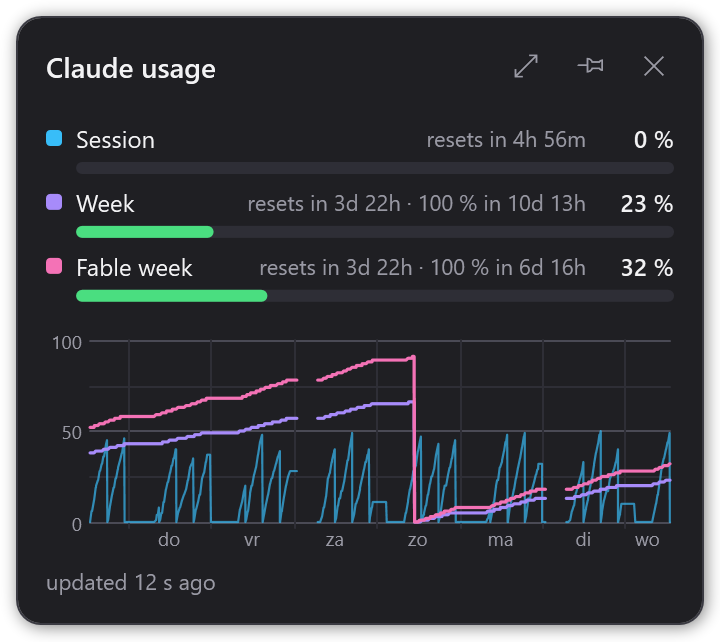
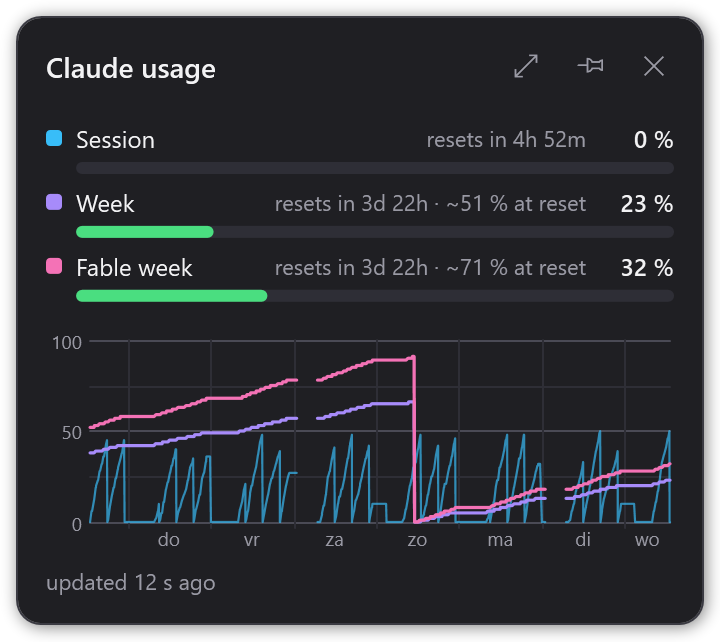
Show the percent reached at reset when 100 % comes after it
The estimate now accounts for the reset: when the bucket would not fill up
before it, the row shows "~NN % at reset" instead of a time to 100 %.

diff --git a/tests/ClaudeUsage.Tests/LimitForecastTests.cs b/tests/ClaudeUsage.Tests/LimitForecastTests.cs
@@ -14,10 +14,28 @@ public sealed class LimitForecastTests
     [Fact]
     public void Session_extrapolates_the_rate_since_it_started()
     {
-        // Started 2 h ago (resets in 3 h), 40 % used: 20 %/h, so 60 % more takes 3 h.
-        var bucket = new UsageBucket(40, s_now.AddHours(3));
+        // Started 2 h ago (resets in 3 h), 60 % used: 30 %/h, so 40 % more takes 80 min.
+        var bucket = new UsageBucket(60, s_now.AddHours(3));
 
-        Assert.Equal(s_now.AddHours(3), LimitForecast.Session(bucket, s_now));
+        Assert.Equal(new LimitEstimate(s_now.AddMinutes(80), null), LimitForecast.Session(bucket, s_now));
+    }
+
+    [Fact]
+    public void Session_that_resets_first_gives_the_percent_at_reset()
+    {
+        // Started 2 h ago (resets in 3 h), 20 % used: 10 %/h, so 50 % by the reset.
+        var bucket = new UsageBucket(20, s_now.AddHours(3));
+
+        Assert.Equal(new LimitEstimate(null, 50), LimitForecast.Session(bucket, s_now));
+    }
+
+    [Fact]
+    public void Percent_at_reset_is_rounded_down()
+    {
+        // 33 % in 2 h = 16.5 %/h; 3 h more gives 82.5 %.
+        var bucket = new UsageBucket(33, s_now.AddHours(3));
+
+        Assert.Equal(new LimitEstimate(null, 82), LimitForecast.Session(bucket, s_now));
     }
 
     [Theory]
@@ -42,9 +60,30 @@ public sealed class LimitForecastTests
         // 30 % added over 3 days = 10 %/day; 60 % left takes 6 days.
         var history = new[] { Week(s_now.AddDays(-3), 10), Week(s_now.AddDays(-1), 25), Week(s_now, 40) };
 
-        var eta = LimitForecast.Weekly(new UsageBucket(40, s_now.AddDays(2)), history, s => s.Week, s_now);
+        var estimate = LimitForecast.Weekly(new UsageBucket(40, s_now.AddDays(7)), history, s => s.Week, s_now);
 
-        Assert.Equal(s_now.AddDays(6), eta);
+        Assert.Equal(new LimitEstimate(s_now.AddDays(6), null), estimate);
+    }
+
+    [Fact]
+    public void Weekly_that_resets_first_gives_the_percent_at_reset()
+    {
+        // 10 %/day as above; 2 days to the reset adds 20 %.
+        var history = new[] { Week(s_now.AddDays(-3), 10), Week(s_now.AddDays(-1), 25), Week(s_now, 40) };
+
+        var estimate = LimitForecast.Weekly(new UsageBucket(40, s_now.AddDays(2)), history, s => s.Week, s_now);
+
+        Assert.Equal(new LimitEstimate(null, 60), estimate);
+    }
+
+    [Fact]
+    public void Weekly_without_reset_time_still_estimates_when_full()
+    {
+        var history = new[] { Week(s_now.AddDays(-3), 10), Week(s_now, 40) };
+
+        var estimate = LimitForecast.Weekly(new UsageBucket(40, null), history, s => s.Week, s_now);
+
+        Assert.Equal(new LimitEstimate(s_now.AddDays(6), null), estimate);
     }
 
     [Fact]
@@ -59,10 +98,10 @@ public sealed class LimitForecastTests
             Week(s_now, 20),
         };
 
-        var eta = LimitForecast.Weekly(new UsageBucket(20, s_now.AddDays(6)), history, s => s.Week, s_now);
+        var estimate = LimitForecast.Weekly(new UsageBucket(20, s_now.AddDays(9)), history, s => s.Week, s_now);
 
         // 20 + 10 + 10 = 40 % over 4 days = 10 %/day; 80 % left takes 8 days.
-        Assert.Equal(s_now.AddDays(8), eta);
+        Assert.Equal(new LimitEstimate(s_now.AddDays(8), null), estimate);
     }
 
     [Fact]
@@ -76,11 +115,11 @@ public sealed class LimitForecastTests
     }
 
     [Fact]
-    public void Row_shows_estimate_in_red_when_it_comes_before_the_reset()
+    public void Row_shows_time_to_full_in_red_when_it_comes_before_the_reset()
     {
         var row = new BucketRow("Session", Palette.SessionSeries);
 
-        row.Update(new UsageBucket(40, s_now.AddHours(3)), s_now, s_now.AddHours(2));
+        row.Update(new UsageBucket(60, s_now.AddHours(3)), s_now, new LimitEstimate(s_now.AddHours(2), null));
 
         Assert.Equal("resets in 3h 0m", row.Countdown);
         Assert.Equal(" · 100 % in 2h 0m", row.Forecast);
@@ -88,17 +127,28 @@ public sealed class LimitForecastTests
     }
 
     [Fact]
-    public void Row_shows_estimate_muted_when_the_reset_comes_first()
+    public void Row_shows_percent_at_reset_muted_when_the_reset_comes_first()
     {
         var row = new BucketRow("Week", Palette.WeekSeries);
 
-        row.Update(new UsageBucket(40, s_now.AddDays(2)), s_now, s_now.AddDays(6));
+        row.Update(new UsageBucket(40, s_now.AddDays(2)), s_now, new LimitEstimate(null, 60));
 
-        Assert.Equal(" · 100 % in 6d 0h", row.Forecast);
+        Assert.Equal(" · ~60 % at reset", row.Forecast);
         Assert.Same(Palette.TextMuted, row.ForecastBrush);
 
         row.Update(new UsageBucket(40, s_now.AddDays(2)), s_now);
 
         Assert.Equal("", row.Forecast);
+    }
+
+    [Fact]
+    public void Row_without_reset_time_shows_time_to_full_muted()
+    {
+        var row = new BucketRow("Fable week", Palette.ModelSeries);
+
+        row.Update(new UsageBucket(40, null), s_now, new LimitEstimate(s_now.AddDays(6), null));
+
+        Assert.Equal("100 % in 6d 0h", row.Forecast);
+        Assert.Same(Palette.TextMuted, row.ForecastBrush);
     }
 }

diff --git a/src/ClaudeUsage/Usage/LimitForecast.cs b/src/ClaudeUsage/Usage/LimitForecast.cs
@@ -3,9 +3,15 @@ using ClaudeUsage.Storage;
 namespace ClaudeUsage.Usage;
 
 /// <summary>
-/// Linear estimates of when a bucket reaches 100 %: the session from its average rate since it started, the week
-/// buckets from their average rate over the last 7 days of history. Null when there is too little to go on, nothing
-/// is being used, or the bucket is already full.
+/// Where a bucket is heading at its current rate: <see cref="FullAt"/> when it reaches 100 % before the reset (or the
+/// reset is unknown), otherwise <see cref="AtReset"/>, the percentage it would reach by the reset.
+/// </summary>
+public sealed record LimitEstimate(DateTimeOffset? FullAt, int? AtReset);
+
+/// <summary>
+/// Linear estimates from a usage rate: the session's from its average rate since it started, the week buckets' from
+/// their average rate over the last 7 days of history. Null when there is too little to go on, nothing is being
+/// used, or the bucket is already full.
 /// </summary>
 public static class LimitForecast
 {
@@ -17,27 +23,27 @@ public static class LimitForecast
     public static readonly TimeSpan MinSpan = TimeSpan.FromMinutes(15);
 
     /// <summary>The session started <see cref="SessionLength"/> before its reset; usage since then sets the rate.</summary>
-    public static DateTimeOffset? Session(UsageBucket? bucket, DateTimeOffset now)
+    public static LimitEstimate? Session(UsageBucket? bucket, DateTimeOffset now)
     {
-        if (bucket is not { ResetsAt: { } reset } || bucket.Percent is <= 0 or >= 100)
+        if (bucket is not { ResetsAt: { } reset } || bucket.Percent <= 0)
         {
             return null;
         }
 
         var elapsed = now - (reset - SessionLength);
-        return elapsed < MinSpan ? null : Eta(bucket.Percent, bucket.Percent / elapsed.TotalHours, now);
+        return elapsed < MinSpan ? null : Estimate(bucket, bucket.Percent / elapsed.TotalHours, now);
     }
 
     /// <summary>
     /// Rate = usage added over the samples of the last 7 days / the time they span. Increases between consecutive
     /// samples are summed; across a reset (a drop) the new value counts as used since the reset.
     /// </summary>
-    public static DateTimeOffset? Weekly(
+    public static LimitEstimate? Weekly(
         UsageBucket? bucket, IReadOnlyList<UsageSample> history, Func<UsageSample, int?> percentOf, DateTimeOffset now)
     {
         ArgumentNullException.ThrowIfNull(history);
         ArgumentNullException.ThrowIfNull(percentOf);
-        if (bucket is null || bucket.Percent >= 100)
+        if (bucket is null)
         {
             return null;
         }
@@ -68,13 +74,25 @@ public static class LimitForecast
             return null;
         }
 
-        return Eta(bucket.Percent, used / (l - f).TotalHours, now);
+        return Estimate(bucket, used / (l - f).TotalHours, now);
     }
 
-    private static DateTimeOffset? Eta(int percent, double perHour, DateTimeOffset now)
+    private static LimitEstimate? Estimate(UsageBucket bucket, double perHour, DateTimeOffset now)
     {
-        double hours = (100 - percent) / perHour;
+        if (bucket.Percent >= 100)
+        {
+            return null;
+        }
+
+        double hoursToFull = (100 - bucket.Percent) / perHour;
+        if (bucket.ResetsAt is { } reset && (reset - now).TotalHours < hoursToFull)
+        {
+            double hoursToReset = Math.Max(0, (reset - now).TotalHours);
+            // Rounded down: it stays below 100 % by definition.
+            return new LimitEstimate(null, (int)(bucket.Percent + (perHour * hoursToReset)));
+        }
+
         // Beyond a year the estimate means nothing (and DateTimeOffset could overflow).
-        return hours is > 0 and < 24 * 365 ? now + TimeSpan.FromHours(hours) : null;
+        return hoursToFull < 24 * 365 ? new LimitEstimate(now + TimeSpan.FromHours(hoursToFull), null) : null;
     }
 }

diff --git a/src/ClaudeUsage/UI/MainViewModel.cs b/src/ClaudeUsage/UI/MainViewModel.cs
@@ -31,7 +31,7 @@ public abstract class ObservableObject : INotifyPropertyChanged
     protected void Raise(string? name) => PropertyChanged?.Invoke(this, new PropertyChangedEventArgs(name));
 }
 
-/// <summary>One stats row: label with its chart colour, bar, "NN %", "resets in …" and when 100 % would be hit.</summary>
+/// <summary>One stats row: label with its chart colour, bar, "NN %", "resets in …" and where the bucket is heading.</summary>
 public sealed class BucketRow(string label, Brush swatch) : ObservableObject
 {
     public const string Missing = "—";
@@ -59,14 +59,17 @@ public sealed class BucketRow(string label, Brush swatch) : ObservableObject
 
     public string Countdown { get => _countdown; private set => Set(ref _countdown, value); }
 
-    /// <summary>" · 100 % in 3h 10m" (separator only after a countdown); empty without an estimate.</summary>
+    /// <summary>
+    /// " · 100 % in 3h 10m", or " · ~85 % at reset" when the reset comes first (separator only after a countdown);
+    /// empty without an estimate.
+    /// </summary>
     public string Forecast { get => _forecast; private set => Set(ref _forecast, value); }
 
     /// <summary>Red when 100 % would be hit before the reset, muted otherwise.</summary>
     public Brush ForecastBrush { get => _forecastBrush; private set => Set(ref _forecastBrush, value); }
 
-    /// <param name="fullAt">Estimated time of reaching 100 % (see <see cref="LimitForecast"/>), if any.</param>
-    public void Update(UsageBucket? bucket, DateTimeOffset now, DateTimeOffset? fullAt = null)
+    /// <param name="estimate">Where the bucket is heading (see <see cref="LimitForecast"/>), if known.</param>
+    public void Update(UsageBucket? bucket, DateTimeOffset now, LimitEstimate? estimate = null)
     {
         if (bucket is null)
         {
@@ -84,10 +87,14 @@ public sealed class BucketRow(string label, Brush swatch) : ObservableObject
         BarValue = shown;
         BarBrush = Palette.BrushForPercent(bucket.Percent);
         Countdown = CountdownFormatter.Format(bucket.ResetsAt, now) is { } c ? "resets " + c : "";
-        Forecast = fullAt is { } full
-            ? (Countdown.Length > 0 ? " · " : "") + "100 % " + CountdownFormatter.Format(full, now)
-            : "";
-        ForecastBrush = fullAt < bucket.ResetsAt ? Palette.Critical : Palette.TextMuted;
+        string? forecast = estimate switch
+        {
+            { FullAt: { } full } => "100 % " + CountdownFormatter.Format(full, now),
+            { AtReset: { } atReset } => string.Create(CultureInfo.InvariantCulture, $"~{atReset} % at reset"),
+            _ => null,
+        };
+        Forecast = forecast is null ? "" : (Countdown.Length > 0 ? " · " : "") + forecast;
+        ForecastBrush = estimate?.FullAt < bucket.ResetsAt ? Palette.Critical : Palette.TextMuted;
     }
 }
 
